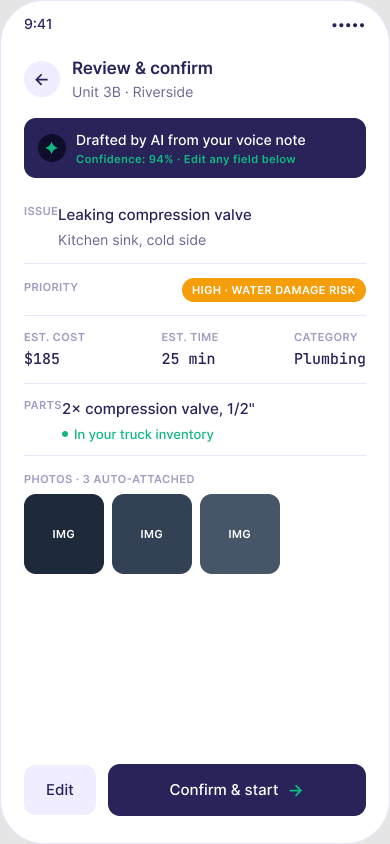
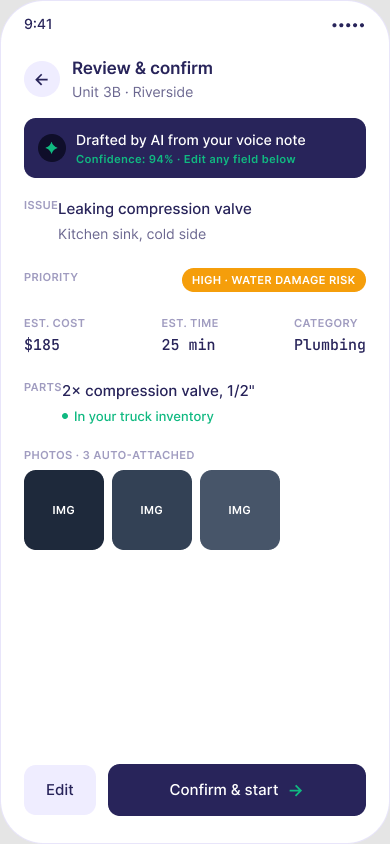
F4 borderless rows + simplify CTA + move Figma to footer
F4 mockup: removed row borders that were reading as underlines at zoom.
Replaced with 8px gap spacing between rows for visual separation —
form reads cleaner.

CTA section: removed both the email button and the Figma file button.
Now just shows chriscalvino.com as a single text link in mint green.
Less is more — the headline + body do the work.

Footer: Figma file link moved here as a tertiary "more info" location.

Changed region(s): [[0.0615, 0.2156, 0.9538, 0.6777]]

diff --git a/app/page.tsx b/app/page.tsx
@@ -134,7 +134,7 @@ export default function Home() {
                 alt={s.label}
                 width={390}
                 height={844}
-                className="relative rounded-[44px] shadow-[0_30px_60px_-15px_rgba(11,37,64,0.25)] ring-1 ring-bg-deep/5"
+                className="relative rounded-[44px] shadow-[0_30px_60px_-15px_rgba(11,37,64,0.25)] ring-1 ring-bg-deep/5 max-w-full h-auto"
                 priority
               />
             </div>
@@ -312,40 +312,20 @@ export default function Home() {
           <h2 className="text-[clamp(32px,4.8vw,56px)] font-bold leading-[1.08] tracking-[-0.03em] mb-7 max-w-2xl mx-auto">
             A working concept, submitted for review.
           </h2>
-          <p className="text-[17px] leading-[1.65] text-text-on-navy/80 max-w-2xl mx-auto mb-12">
+          <p className="text-[17px] leading-[1.65] text-text-on-navy/80 max-w-2xl mx-auto mb-10">
             The artifact above documents persona choice, system extension
             rationale (JoyAI → Field Copilot), and one functional moment
             built in real code. Open to discussion of implementation
             trade-offs, scope, or design rationale.
           </p>
-          <div className="flex flex-col sm:flex-row items-center justify-center gap-4">
-            <a
-              href="https://www.figma.com/design/MG6QCVUnwNy4NLIahdk2p0"
-              target="_blank"
-              rel="noreferrer"
-              className="inline-flex items-center gap-2 px-7 py-4 rounded-full bg-accent-ai text-bg-deep font-semibold hover:bg-text-inverse transition"
-            >
-              View Figma file
-              <span>↗</span>
-            </a>
-            <a
-              href="mailto:[email redacted]?subject=Re%3A%20Field%20Copilot"
-              className="inline-flex items-center gap-2 px-7 py-4 rounded-full border border-text-on-navy/30 text-text-inverse font-medium hover:border-accent-ai hover:text-accent-ai transition"
-            >
-              [email redacted]
-              <span>→</span>
-            </a>
-          </div>
-          <div className="mt-8">
-            <a
-              href="https://chriscalvino.com"
-              target="_blank"
-              rel="noreferrer"
-              className="text-[13px] text-text-on-navy/55 hover:text-accent-ai transition underline-offset-4 hover:underline"
-            >
-              chriscalvino.com ↗
-            </a>
-          </div>
+          <a
+            href="https://chriscalvino.com"
+            target="_blank"
+            rel="noreferrer"
+            className="inline-block text-[18px] sm:text-[20px] font-medium text-accent-ai hover:text-text-inverse transition underline-offset-[6px] hover:underline"
+          >
+            chriscalvino.com ↗
+          </a>
         </div>
       </section>
 
@@ -356,8 +336,17 @@ export default function Home() {
             Christian Calviño
           </span>
         </div>
-        <div>
-          Not affiliated with HappyCo · {new Date().getFullYear()}
+        <div className="flex items-center gap-5">
+          <a
+            href="https://www.figma.com/design/MG6QCVUnwNy4NLIahdk2p0"
+            target="_blank"
+            rel="noreferrer"
+            className="hover:text-text-primary transition"
+          >
+            View Figma file ↗
+          </a>
+          <span className="text-text-tertiary/50">·</span>
+          <span>Not affiliated with HappyCo · {new Date().getFullYear()}</span>
         </div>
       </footer>
     </main>